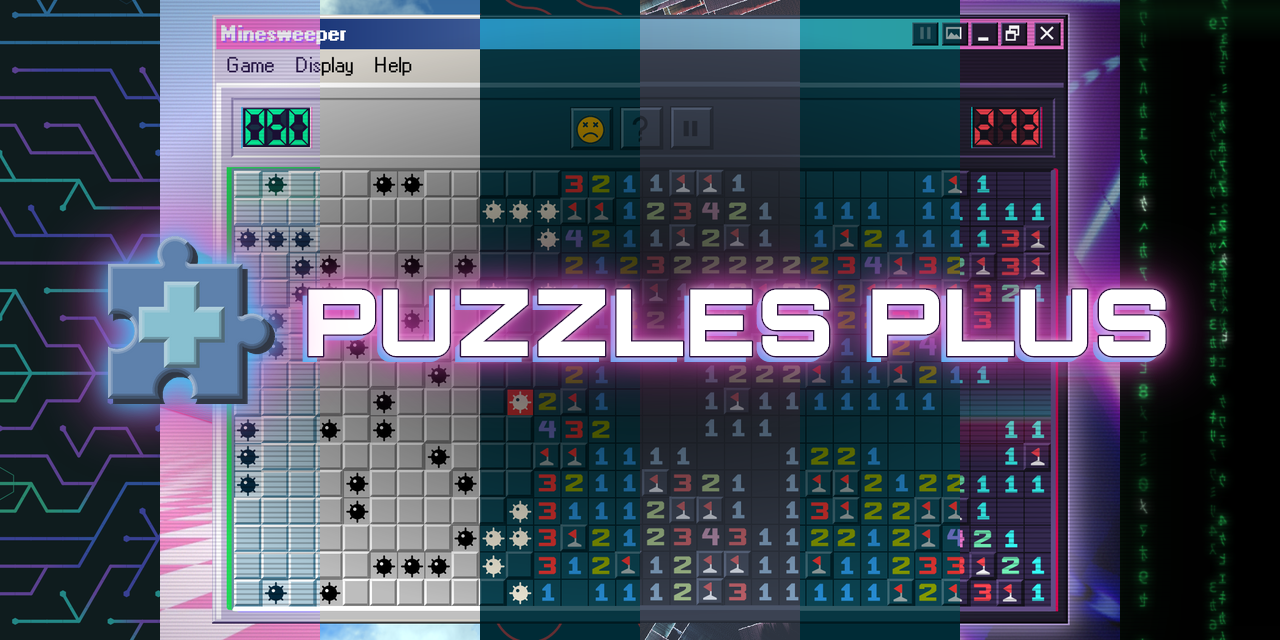
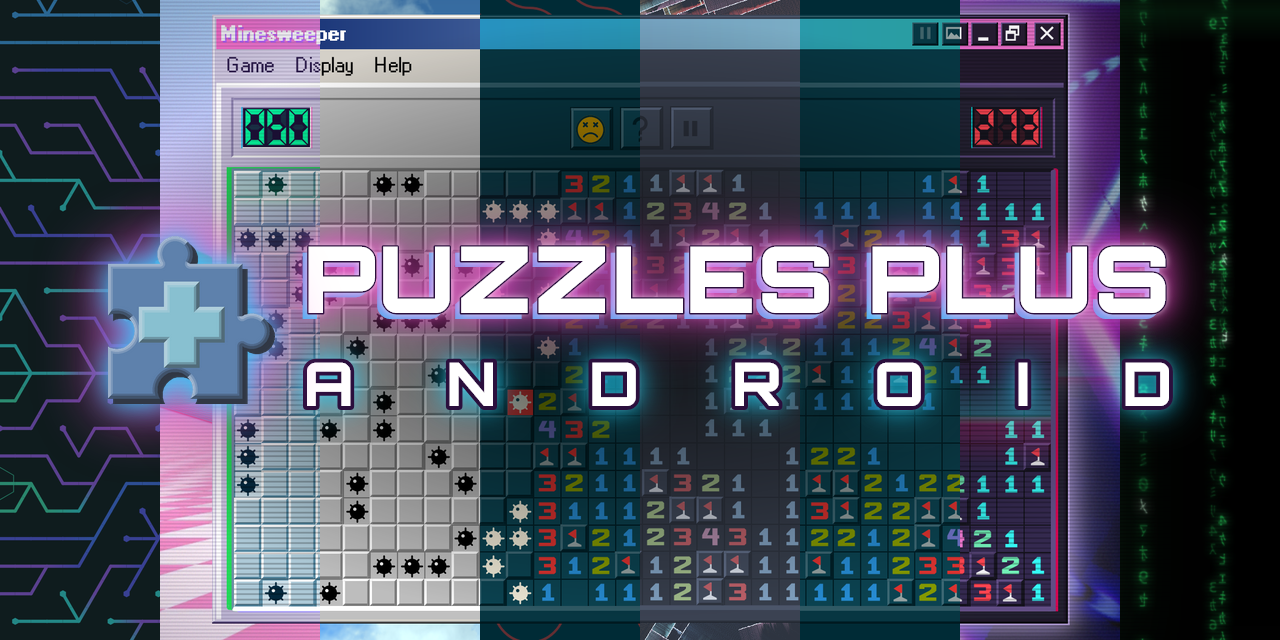
Social preview with an Android subtitle under the title

Changed region(s): [[0.2188, 0.3125, 0.9375, 0.6875]]

diff --git a/docs/banner/wordmark.html b/docs/banner/wordmark.html
@@ -63,6 +63,11 @@
   }
 
   /*d: a dark plate the theme strips show round, the name in each theme's accent*/
+  /*a subtitle under the name, spaced out to the name's width by the script*/
+  .words { display: grid; justify-items: start }
+  .sub { font: 800 60px Orbitron; color: #fff; white-space: nowrap; margin-top: 10px;
+         -webkit-text-stroke: 8px #2b0f3d; paint-order: stroke fill;
+         text-shadow: 0 0 8px #fff8, 0 0 22px #1fd6ff, 0 0 40px #1fd6ff }
   .d .plate {
     position: relative; display: grid; justify-items: center; padding: 34px 56px 38px;
     background: #2e3440e6; border-radius: 28px; box-shadow: 0 0 0 3px #eceff433, 0 20px 50px #000c;
@@ -83,6 +88,7 @@
     'Classic logic puzzles, Windows style. Free, offline, no ads.',
   ]
   const blurb = blurbs[+(q.get('blurb') || 0)]
+  const sub = (q.get('sub') || '').toUpperCase()
   const card = document.getElementById('card')
   card.classList.add(look)
   if (q.has('plain')) card.classList.add('plain')
@@ -93,8 +99,18 @@
   const html = {
     a: `<div class="mark">${icon}<div class="name">Puzzles <b>Plus</b></div></div>${text}`,
     b: `<div class="mark"><div class="bar">${icon}<div class="name">Puzzles Plus</div></div>${text}</div>`,
-    c: `<div class="mark">${icon}<div class="name">PUZZLES PLUS</div></div>${text}`,
+    c: `<div class="mark">${icon}<div class="words"><div class="name">PUZZLES PLUS</div>${sub ? `<div class="sub">${sub}</div>` : ''}</div></div>${text}`,
     d: `<div class="plate"><div class="mark">${icon}<div class="name">${[...'Puzzles Plus'].map((ch, k) => `<span style="color:${hues[k]}">${ch}</span>`).join('')}</div></div>${text}</div>`,
   }[look]
   document.getElementById('wrap').outerHTML = html
+  //the subtitle's letters spread until it is as wide as the name (the last gap is trimmed off)
+  document.fonts.ready.then(() => {
+    const name = document.querySelector('.name'), el = document.querySelector('.sub')
+    if (!el) return
+    el.style.letterSpacing = '0px'
+    const gaps = [...el.textContent].length - 1
+    const space = (name.getBoundingClientRect().width - el.getBoundingClientRect().width) / gaps
+    el.style.letterSpacing = space + 'px'
+    el.style.marginRight = -space + 'px'
+  })
 </script>
